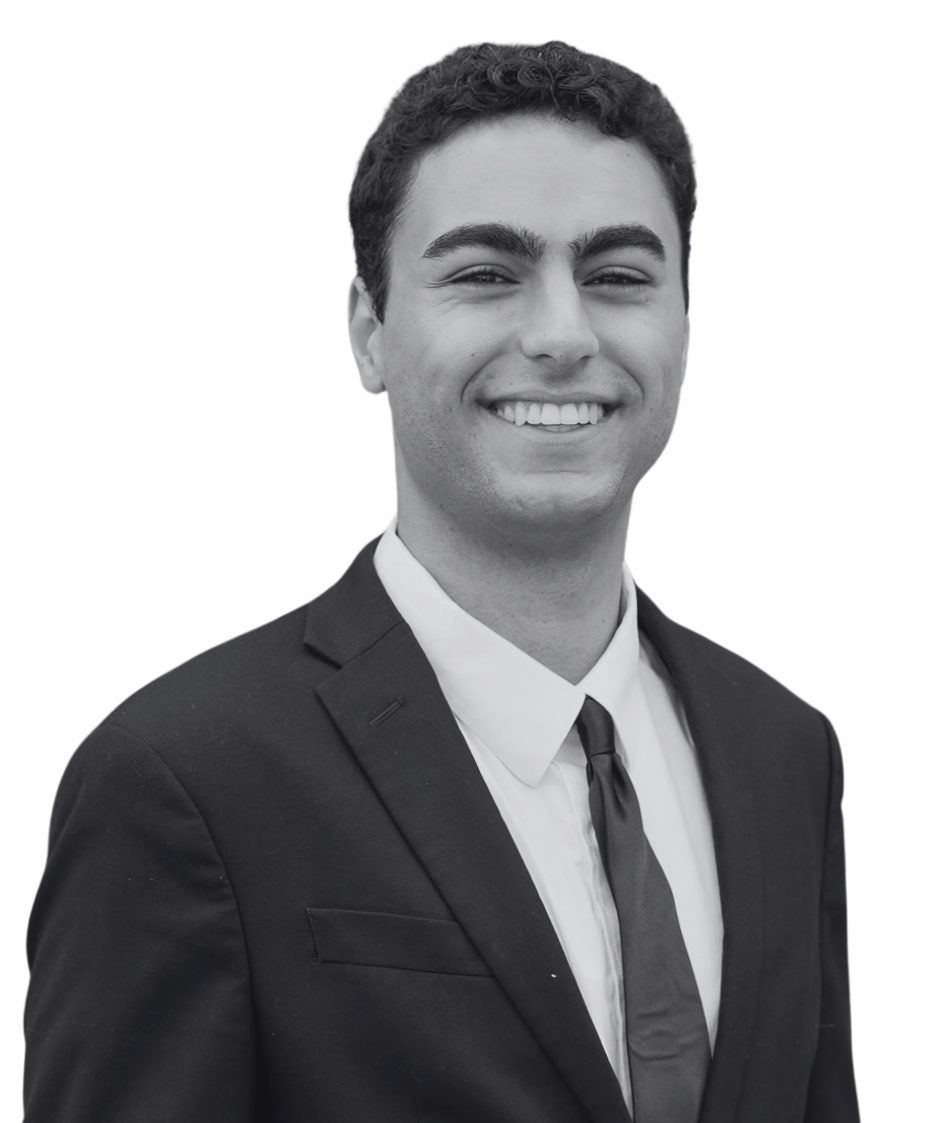
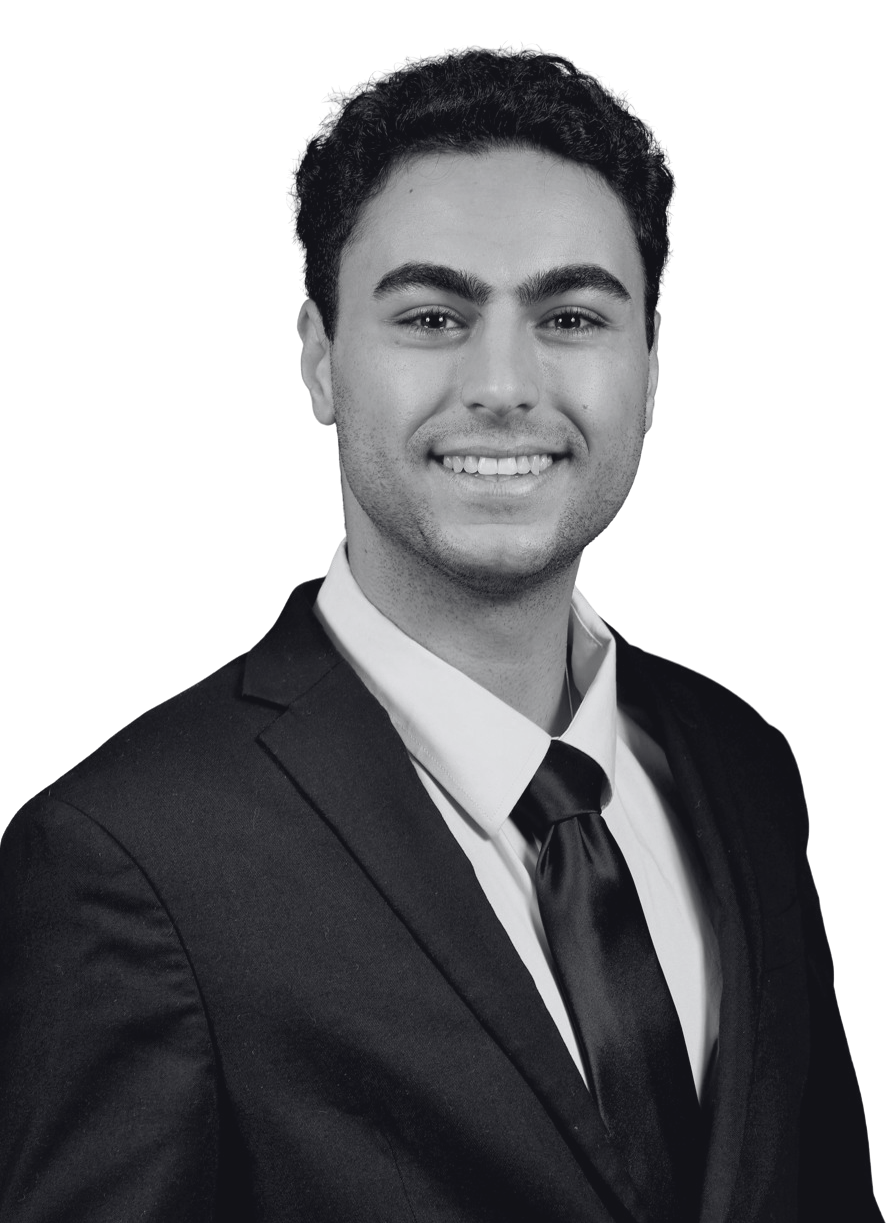
Update Michael Larian bio and team photo
- Bio: add website development, change to studying Data Science at UC Berkeley
- Cache-bust team image (v=2)
- Updated team photo

diff --git a/components/sections/Team.tsx b/components/sections/Team.tsx
@@ -84,11 +84,9 @@ Tiffany holds a Bachelor of Arts from the University of California, Los Angeles 
     id: 6,
     name: 'Michael Larian',
     title: 'Creative & Technology Director',
-    bio: `Michael Larian is the Creative & Technology Director at Creation Partners, where he leads the firm's creative direction, digital presence, and technology-forward initiatives. His work spans brand development, visual storytelling, platform design, and the integration of creative and technical tools that enhance how the firm communicates and operates.
-
-Michael holds a Bachelor of Science from the University of California, Berkeley.`,
+    bio: `Michael Larian is the Creative & Technology Director at Creation Partners, where he leads the firm's creative direction, digital presence, and technology-forward initiatives, including development of the website. His work spans brand development, visual storytelling, platform design, and the integration of creative and technical tools that enhance how the firm communicates and operates. Michael is studying Data Science at the University of California, Berkeley.`,
     linkedin: 'https://www.linkedin.com/in/michael-larian/',
-    image: '/team/michael-larian.png',
+    image: '/team/michael-larian.png?v=2',
     imagePosition: 'center 18%',
     imageScale: 'scale-[1.04]',
   },
